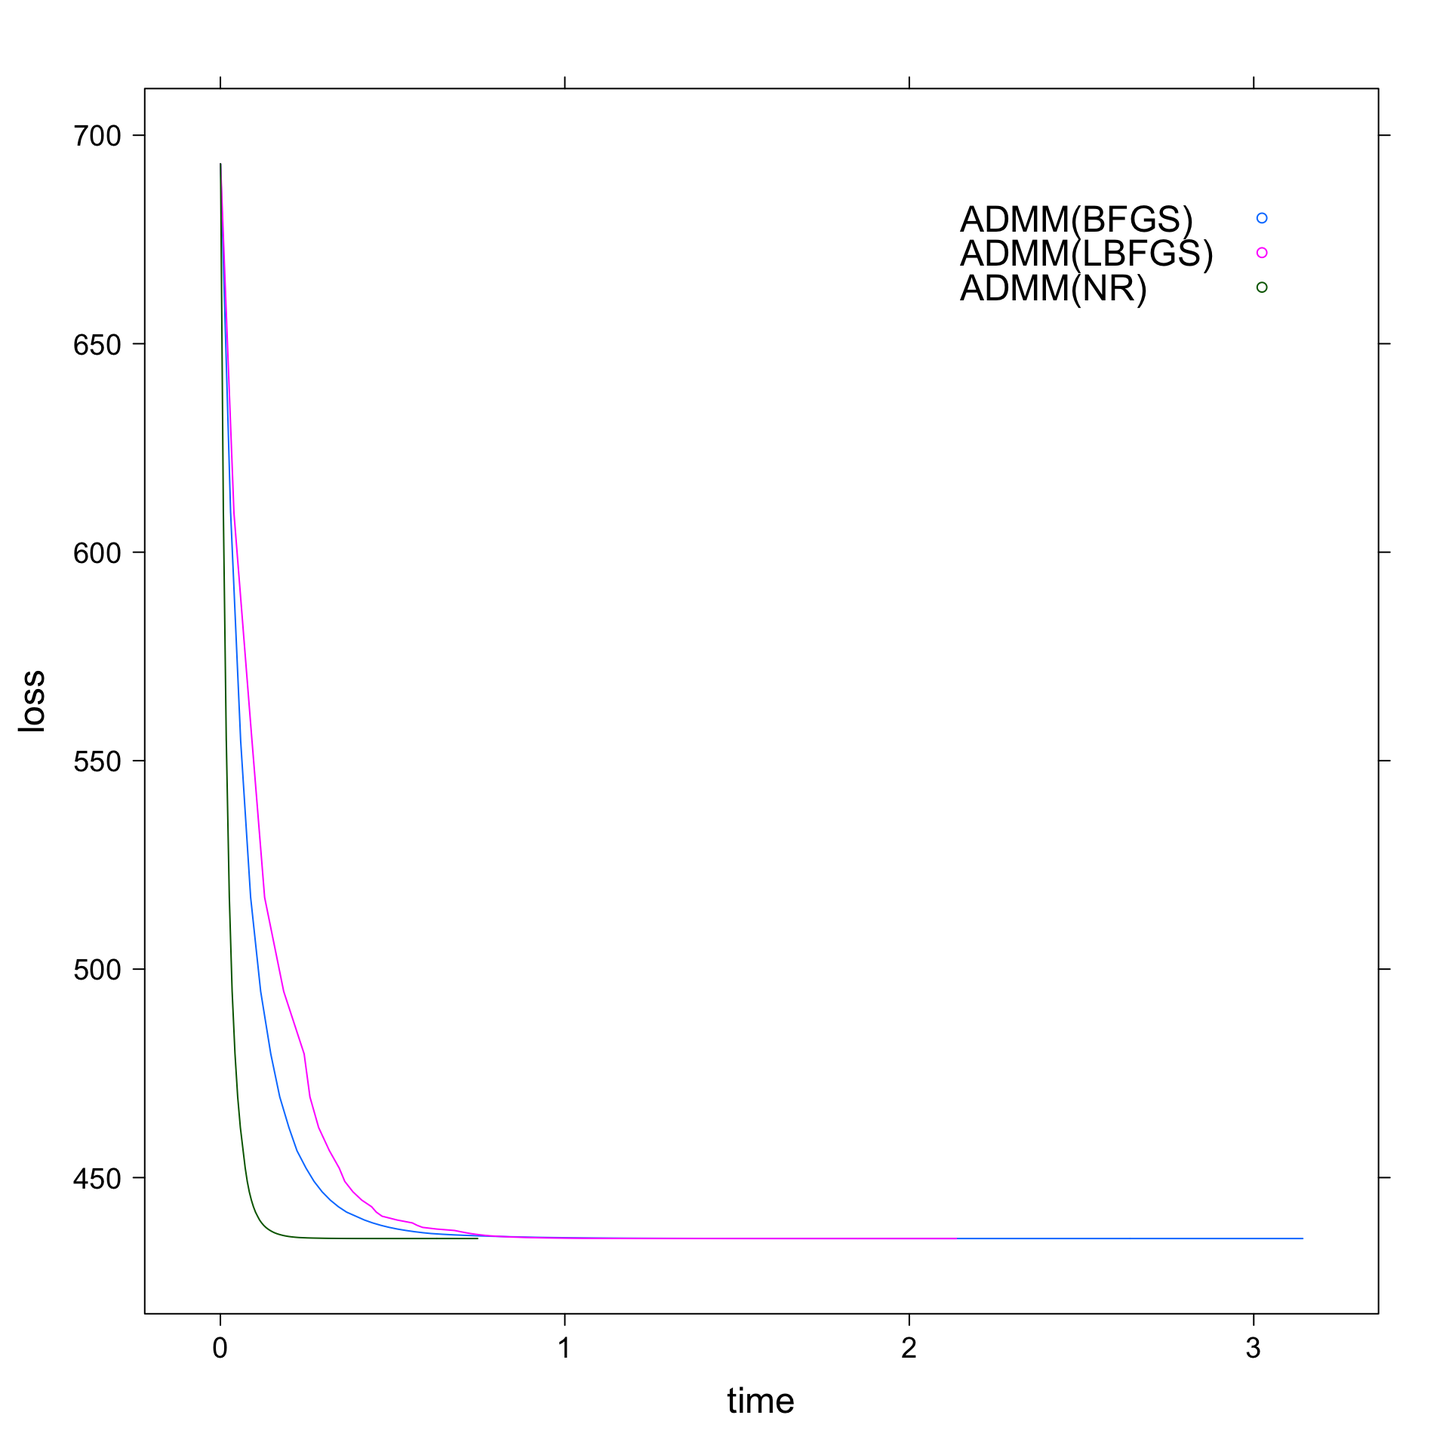
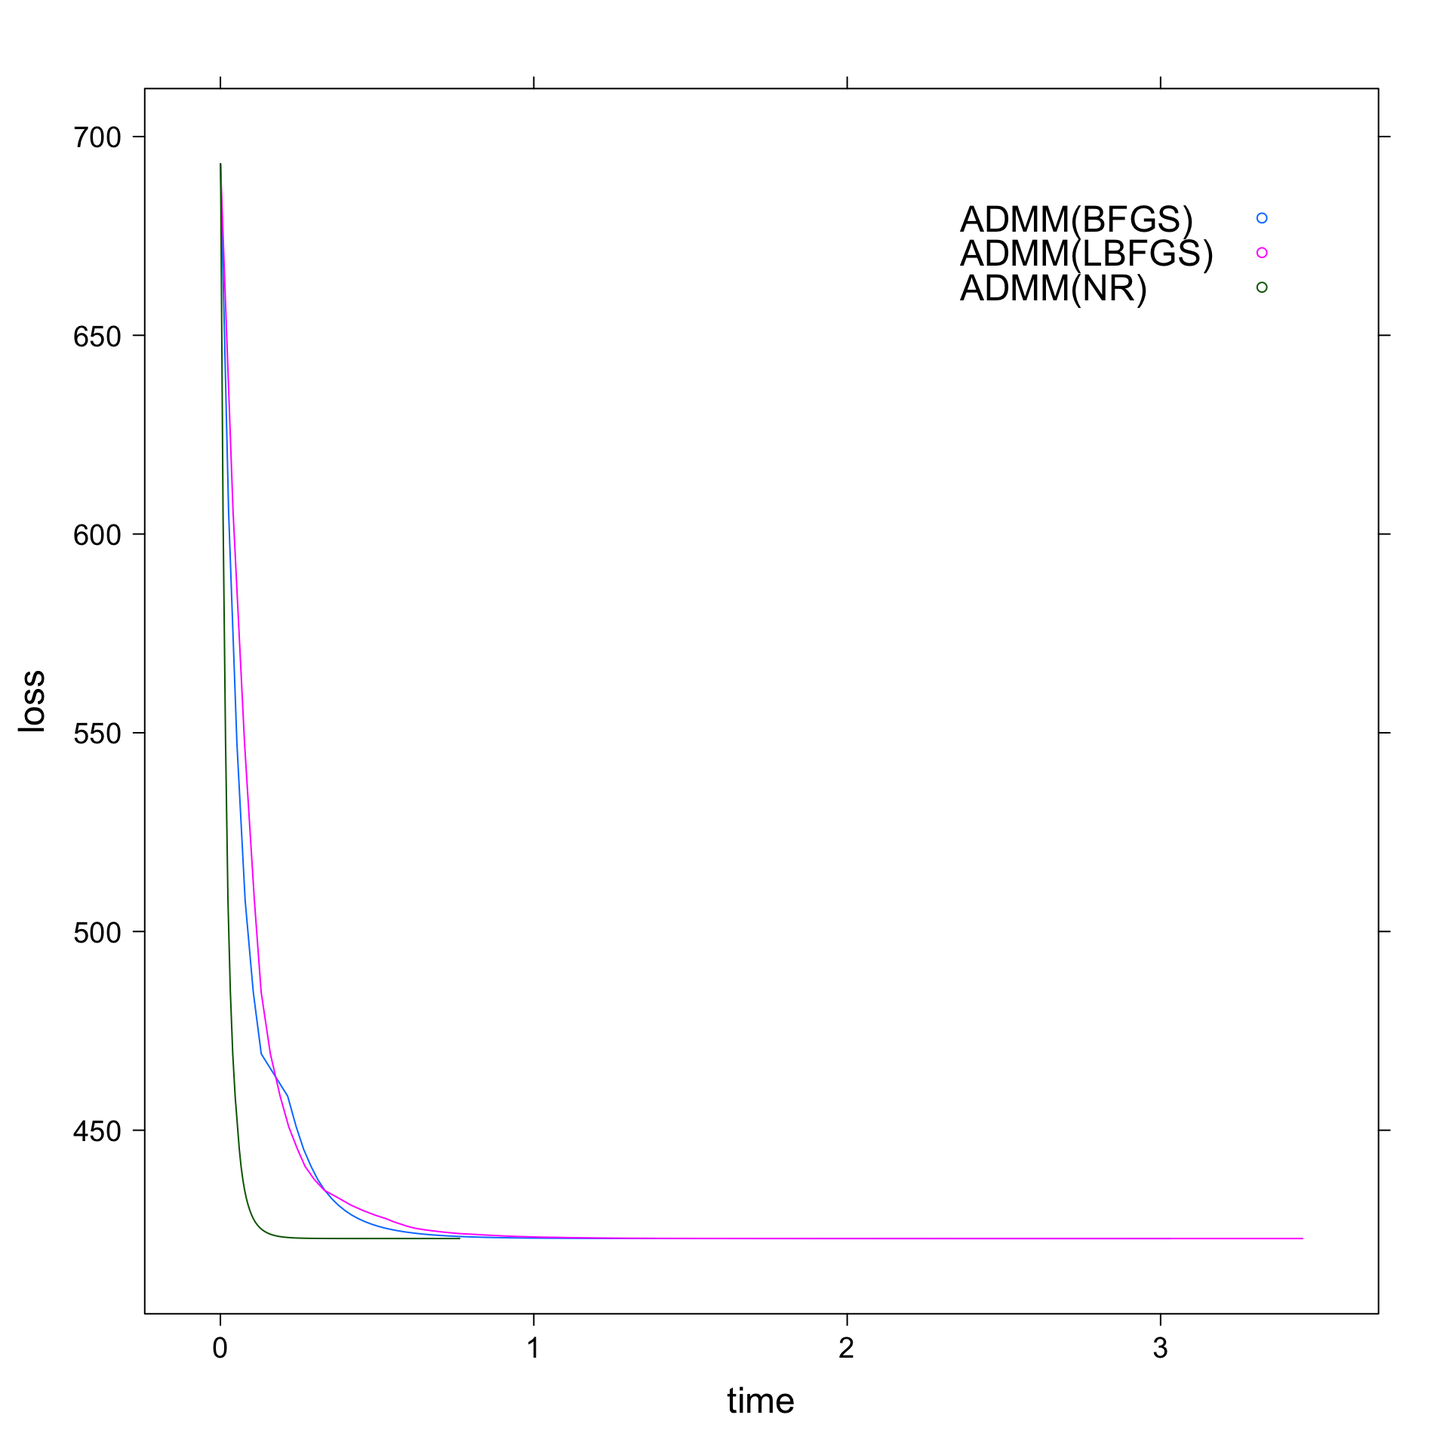
Built site for solvers: 1.0@ba93f93

diff --git a/articles/compare-fista-admm-pn.html b/articles/compare-fista-admm-pn.html
@@ -5,13 +5,13 @@
 <meta charset="utf-8">
 <meta http-equiv="X-UA-Compatible" content="IE=edge">
 <meta name="viewport" content="width=device-width, initial-scale=1.0">
-<title>Comparing Optimization Algorithm Choices in ADMM • solvers</title>
+<title>Comparing FISTA, ADMM and Proximal Newton • solvers</title>
 <!-- jquery --><script src="https://cdnjs.cloudflare.com/ajax/libs/jquery/3.4.1/jquery.min.js" integrity="sha256-CSXorXvZcTkaix6Yvo6HppcZGetbYMGWSFlBw8HfCJo=" crossorigin="anonymous"></script><!-- Bootstrap --><link rel="stylesheet" href="https://cdnjs.cloudflare.com/ajax/libs/twitter-bootstrap/3.4.1/css/bootstrap.min.css" integrity="sha256-bZLfwXAP04zRMK2BjiO8iu9pf4FbLqX6zitd+tIvLhE=" crossorigin="anonymous">
 <script src="https://cdnjs.cloudflare.com/ajax/libs/twitter-bootstrap/3.4.1/js/bootstrap.min.js" integrity="sha256-nuL8/2cJ5NDSSwnKD8VqreErSWHtnEP9E7AySL+1ev4=" crossorigin="anonymous"></script><!-- bootstrap-toc --><link rel="stylesheet" href="../bootstrap-toc.css">
 <script src="../bootstrap-toc.js"></script><!-- Font Awesome icons --><link rel="stylesheet" href="https://cdnjs.cloudflare.com/ajax/libs/font-awesome/5.12.1/css/all.min.css" integrity="sha256-mmgLkCYLUQbXn0B1SRqzHar6dCnv9oZFPEC1g1cwlkk=" crossorigin="anonymous">
 <link rel="stylesheet" href="https://cdnjs.cloudflare.com/ajax/libs/font-awesome/5.12.1/css/v4-shims.min.css" integrity="sha256-wZjR52fzng1pJHwx4aV2AO3yyTOXrcDW7jBpJtTwVxw=" crossorigin="anonymous">
 <!-- clipboard.js --><script src="https://cdnjs.cloudflare.com/ajax/libs/clipboard.js/2.0.6/clipboard.min.js" integrity="sha256-inc5kl9MA1hkeYUt+EC3BhlIgyp/2jDIyBLS6k3UxPI=" crossorigin="anonymous"></script><!-- headroom.js --><script src="https://cdnjs.cloudflare.com/ajax/libs/headroom/0.11.0/headroom.min.js" integrity="sha256-AsUX4SJE1+yuDu5+mAVzJbuYNPHj/WroHuZ8Ir/CkE0=" crossorigin="anonymous"></script><script src="https://cdnjs.cloudflare.com/ajax/libs/headroom/0.11.0/jQuery.headroom.min.js" integrity="sha256-ZX/yNShbjqsohH1k95liqY9Gd8uOiE1S4vZc+9KQ1K4=" crossorigin="anonymous"></script><!-- pkgdown --><link href="../pkgdown.css" rel="stylesheet">
-<script src="../pkgdown.js"></script><meta property="og:title" content="Comparing Optimization Algorithm Choices in ADMM">
+<script src="../pkgdown.js"></script><meta property="og:title" content="Comparing FISTA, ADMM and Proximal Newton">
 <meta property="og:description" content="solvers">
 <!-- mathjax --><script src="https://cdnjs.cloudflare.com/ajax/libs/mathjax/2.7.5/MathJax.js" integrity="sha256-nvJJv9wWKEm88qvoQl9ekL2J+k/RWIsaSScxxlsrv8k=" crossorigin="anonymous"></script><script src="https://cdnjs.cloudflare.com/ajax/libs/mathjax/2.7.5/config/TeX-AMS-MML_HTMLorMML.js" integrity="sha256-84DKXVJXs0/F8OTMzX4UR909+jtl4G7SPypPavF+GfA=" crossorigin="anonymous"></script><!--[if lt IE 9]>
 <script src="https://oss.maxcdn.com/html5shiv/3.7.3/html5shiv.min.js"></script>
@@ -72,55 +72,53 @@
 
       
 
-      </header><script src="compare_opt_algo_files/accessible-code-block-0.0.1/empty-anchor.js"></script><div class="row">
+      </header><script src="compare-fista-admm-pn_files/accessible-code-block-0.0.1/empty-anchor.js"></script><div class="row">
   <div class="col-md-9 contents">
     <div class="page-header toc-ignore">
-      <h1 data-toc-skip>Comparing Optimization Algorithm Choices in ADMM</h1>
+      <h1 data-toc-skip>Comparing FISTA, ADMM and Proximal Newton</h1>
                         <h4 class="author">Akarsh Goyal</h4>
             
             <h4 class="date">2020-07-24</h4>
       
       
-      <div class="hidden name"><code>compare_opt_algo.Rmd</code></div>
+      <div class="hidden name"><code>compare-fista-admm-pn.Rmd</code></div>
 
     </div>
 
     
     
-<p>This tutorial shows how to compare perfomance of ADDM solver for different optimization algorithm choices. In this example, we will compare Newton-Raphson method, BFGS method and L-BFGS method.</p>
+<p>This tutorial shows how to compare perfomance of FISTA, ADMM and Proximal Newton. We will use ‘heart’ dataset for the demonstration.</p>
 <div class="sourceCode" id="cb1"><pre class="downlit">
 <span class="fu"><a href="https://rdrr.io/r/base/library.html">library</a></span>(<span class="kw">solvers</span>)
 <span class="fu"><a href="https://rdrr.io/r/base/library.html">library</a></span>(<span class="kw"><a href="http://lattice.r-forge.r-project.org">lattice</a></span>)
 </pre></div>
+<p>Let’s load the data..</p>
 <div class="sourceCode" id="cb2"><pre class="downlit">
-<span class="co"># Generating data</span>
-<span class="kw">n</span> <span class="op">&lt;-</span> <span class="fl">1000</span>
-<span class="kw">p</span> <span class="op">&lt;-</span> <span class="fl">40</span>
-<span class="kw">d</span> <span class="op">&lt;-</span> <span class="fu"><a href="../reference/randomProblem.html">randomProblem</a></span>(<span class="kw">n</span>, <span class="kw">p</span>, response = <span class="st">"binomial"</span>, density=<span class="fl">0.5</span>)
-<span class="kw">x</span> <span class="op">&lt;-</span> <span class="kw">d</span><span class="op">$</span><span class="kw">x</span>
-<span class="kw">y</span> <span class="op">&lt;-</span> <span class="kw">d</span><span class="op">$</span><span class="kw">y</span>
+<span class="kw">x</span> <span class="op">&lt;-</span> <span class="kw">SLOPE</span>::<span class="kw"><a href="https://jolars.github.io/SLOPE//reference/heart.html">heart</a></span><span class="op">$</span><span class="kw">x</span>
+<span class="kw">y</span> <span class="op">&lt;-</span> <span class="kw">SLOPE</span>::<span class="kw"><a href="https://jolars.github.io/SLOPE//reference/heart.html">heart</a></span><span class="op">$</span><span class="kw">y</span>
 </pre></div>
-<p>Now that we have out training data-set, we will use ADMM to obtain the fit thrice - once with Newton-Raphson as optimization algorithm, once with BFGS as optimization algorithm and finally once with L-BFGS as optimization algorithm. Note that <code>diagnostics=TRUE</code> flag is necessary so that solver records the metrics at each iteration.</p>
+<p>First step is generating fits for each of the algorithms. Note that <code>diagnostics=TRUE</code> flag is necessary so that solver records the metrics at each iteration.</p>
 <div class="sourceCode" id="cb3"><pre class="downlit">
 <span class="co"># Obtaining the fit for the solvers we want to compare</span>
-<span class="kw">admm_nr</span> <span class="op">&lt;-</span> <span class="fu"><a href="../reference/ADMM.html">ADMM</a></span>(<span class="kw">x</span>, <span class="kw">y</span>, family=<span class="st">"binomial"</span>, opt_algo=<span class="st">"nr"</span>, alpha=(<span class="fl">0.01</span>),diagnostics=<span class="fl">TRUE</span>)
-<span class="kw">admm_bfgs</span> <span class="op">&lt;-</span> <span class="fu"><a href="../reference/ADMM.html">ADMM</a></span>(<span class="kw">x</span>, <span class="kw">y</span>, family=<span class="st">"binomial"</span>, opt_algo=<span class="st">"bfgs"</span>, alpha=(<span class="fl">0.01</span>),diagnostics=<span class="fl">TRUE</span>)
-<span class="kw">admm_lbfgs</span> <span class="op">&lt;-</span> <span class="fu"><a href="../reference/ADMM.html">ADMM</a></span>(<span class="kw">x</span>, <span class="kw">y</span>, family=<span class="st">"binomial"</span>, opt_algo=<span class="st">"lbfgs"</span>, alpha=(<span class="fl">0.01</span>),diagnostics=<span class="fl">TRUE</span>)
+<span class="kw">fista_fit</span> <span class="op">&lt;-</span> <span class="fu"><a href="../reference/FISTA.html">FISTA</a></span>(<span class="kw">x</span>, <span class="kw">y</span>, family=<span class="st">"binomial"</span>, alpha=(<span class="fl">0.01</span>),diagnostics=<span class="fl">TRUE</span>)
+<span class="kw">admm_fit</span> <span class="op">&lt;-</span> <span class="fu"><a href="../reference/ADMM.html">ADMM</a></span>(<span class="kw">x</span>, <span class="kw">y</span>, family=<span class="st">"binomial"</span>, alpha=(<span class="fl">0.01</span>),diagnostics=<span class="fl">TRUE</span>)
+<span class="kw">pn_fit</span> <span class="op">&lt;-</span> <span class="fu"><a href="../reference/PN.html">PN</a></span>(<span class="kw">x</span>, <span class="kw">y</span>, family=<span class="st">"binomial"</span>, alpha=(<span class="fl">0.01</span>),diagnostics=<span class="fl">TRUE</span>)
 </pre></div>
+<p>We haven’t specified optimization algorithm choice in ADMM so default (L-BFGS) will be used.</p>
 <p>To compare total execution time, we can use <code>total_time</code> attribute of the fit.</p>
 <div class="sourceCode" id="cb4"><pre class="downlit">
 <span class="co"># Comparing total execution time</span>
-<span class="fu"><a href="https://rdrr.io/r/base/print.html">print</a></span>(<span class="kw">admm_nr</span><span class="op">$</span><span class="kw">total_time</span>)
-<span class="co">#&gt; [1] 0.7702352</span>
-<span class="fu"><a href="https://rdrr.io/r/base/print.html">print</a></span>(<span class="kw">admm_bfgs</span><span class="op">$</span><span class="kw">total_time</span>)
-<span class="co">#&gt; [1] 3.058546</span>
-<span class="fu"><a href="https://rdrr.io/r/base/print.html">print</a></span>(<span class="kw">admm_lbfgs</span><span class="op">$</span><span class="kw">total_time</span>)
-<span class="co">#&gt; [1] 3.479248</span>
+<span class="fu"><a href="https://rdrr.io/r/base/print.html">print</a></span>(<span class="kw">fista_fit</span><span class="op">$</span><span class="kw">total_time</span>)
+<span class="co">#&gt; [1] 0.1087088</span>
+<span class="fu"><a href="https://rdrr.io/r/base/print.html">print</a></span>(<span class="kw">admm_fit</span><span class="op">$</span><span class="kw">total_time</span>)
+<span class="co">#&gt; [1] 0.3976996</span>
+<span class="fu"><a href="https://rdrr.io/r/base/print.html">print</a></span>(<span class="kw">pn_fit</span><span class="op">$</span><span class="kw">total_time</span>)
+<span class="co">#&gt; [1] 0.02168173</span>
 </pre></div>
 <p>Now, these fits cannot be directly used to plot as they contain a lot of parameter so we’ll call a utility function that merges the relevant parameter and returns a dataframe.</p>
 <div class="sourceCode" id="cb5"><pre class="downlit">
 <span class="co"># Merging the metrics into one dataframe</span>
-<span class="kw">f</span> <span class="op">&lt;-</span> <span class="fu"><a href="../reference/mergeFits.html">mergeFits</a></span>(<span class="fu"><a href="https://rdrr.io/r/base/list.html">list</a></span>(<span class="kw">admm_nr</span>, <span class="kw">admm_bfgs</span>, <span class="kw">admm_lbfgs</span>))
+<span class="kw">f</span> <span class="op">&lt;-</span> <span class="fu"><a href="../reference/mergeFits.html">mergeFits</a></span>(<span class="fu"><a href="https://rdrr.io/r/base/list.html">list</a></span>(<span class="kw">fista_fit</span>, <span class="kw">admm_fit</span>, <span class="kw">pn_fit</span>))
 </pre></div>
 <p>Finally, now we can generate the loss vs time plot.</p>
 <div class="sourceCode" id="cb6"><pre class="downlit">
@@ -128,7 +126,7 @@
 <span class="kw">plt</span> <span class="op">&lt;-</span> <span class="fu"><a href="https://rdrr.io/pkg/lattice/man/xyplot.html">xyplot</a></span>(<span class="kw">loss</span> <span class="op">~</span> <span class="kw">time</span>, group = <span class="kw">solver</span>, data = <span class="kw">f</span>, auto.key = <span class="fu"><a href="https://rdrr.io/r/base/list.html">list</a></span>(corner = <span class="fu"><a href="https://rdrr.io/r/base/c.html">c</a></span>(<span class="fl">0.9</span>, <span class="fl">0.9</span>)), type = <span class="st">"l"</span>)
 <span class="fu"><a href="https://rdrr.io/r/stats/update.html">update</a></span>(<span class="kw">plt</span>, par.settings = <span class="fu"><a href="https://rdrr.io/r/base/list.html">list</a></span>(fontsize = <span class="fu"><a href="https://rdrr.io/r/base/list.html">list</a></span>(text = <span class="fl">18</span>)))
 </pre></div>
-<p><img src="compare_opt_algo_files/figure-html/unnamed-chunk-6-1.png" width="960"></p>
+<p><img src="compare-fista-admm-pn_files/figure-html/unnamed-chunk-6-1.png" width="960"></p>
   </div>
 
   <div class="col-md-3 hidden-xs hidden-sm" id="pkgdown-sidebar">

diff --git a/reference/PN.html b/reference/PN.html
@@ -6,7 +6,7 @@
 <meta http-equiv="X-UA-Compatible" content="IE=edge">
 <meta name="viewport" content="width=device-width, initial-scale=1.0">
 
-<title>FISTA — FISTA • solvers</title>
+<title>Proximal Newton — PN • solvers</title>
 
 
 <!-- jquery -->
@@ -39,8 +39,8 @@
 
 
 
-<meta property="og:title" content="FISTA — FISTA" />
-<meta property="og:description" content="FISTA" />
+<meta property="og:title" content="Proximal Newton — PN" />
+<meta property="og:description" content="Proximal Newton" />
 
 
 
@@ -118,16 +118,16 @@
 <div class="row">
   <div class="col-md-9 contents">
     <div class="page-header">
-    <h1>FISTA</h1>
+    <h1>Proximal Newton</h1>
     
-    <div class="hidden name"><code>FISTA.Rd</code></div>
+    <div class="hidden name"><code>PN.Rd</code></div>
     </div>
 
     <div class="ref-description">
-    <p>FISTA</p>
+    <p>Proximal Newton</p>
     </div>
 
-    <pre class="usage"><span class='fu'>FISTA</span>(
+    <pre class="usage"><span class='fu'>PN</span>(
   <span class='kw'>x</span>,
   <span class='kw'>y</span>,
   family = <span class='fu'><a href='https://rdrr.io/r/base/c.html'>c</a></span>(<span class='st'>"gaussian"</span>, <span class='st'>"binomial"</span>, <span class='st'>"multinomial"</span>, <span class='st'>"poisson"</span>),
@@ -144,9 +144,7 @@
   tol_dev_change = <span class='fl'>1e-05</span>,
   tol_dev_ratio = <span class='fl'>0.995</span>,
   max_variables = <span class='fu'><a href='https://rdrr.io/r/base/nrow.html'>NROW</a></span>(<span class='kw'>x</span>),
-  max_passes = <span class='fl'>1e+06</span>,
-  tol_rel_gap = <span class='fl'>1e-05</span>,
-  tol_infeas = <span class='fl'>0.001</span>,
+  max_passes = <span class='fl'>150</span>,
   diagnostics = <span class='fl'>FALSE</span>,
   verbosity = <span class='fl'>0</span>
 )</pre>
@@ -265,14 +263,6 @@ the number of levels of the response minus one.</p></td>
     <tr>
       <th>max_passes</th>
       <td><p>maximum number of passes (outer iterations) for solver</p></td>
-    </tr>
-    <tr>
-      <th>tol_rel_gap</th>
-      <td><p>stopping criterion for the duality gap</p></td>
-    </tr>
-    <tr>
-      <th>tol_infeas</th>
-      <td><p>stopping criterion for the level of infeasibility</p></td>
     </tr>
     <tr>
       <th>diagnostics</th>

diff --git a/reference/mergeFits.html b/reference/mergeFits.html
@@ -6,7 +6,7 @@
 <meta http-equiv="X-UA-Compatible" content="IE=edge">
 <meta name="viewport" content="width=device-width, initial-scale=1.0">
 
-<title>FISTA — mergeFits • solvers</title>
+<title>Merges all the fits and returns a dataframe containing losses and time — mergeFits • solvers</title>
 
 
 <!-- jquery -->
@@ -39,8 +39,8 @@
 
 
 
-<meta property="og:title" content="FISTA — mergeFits" />
-<meta property="og:description" content="FISTA" />
+<meta property="og:title" content="Merges all the fits and returns a dataframe containing losses and time — mergeFits" />
+<meta property="og:description" content="Merges all the fits and returns a dataframe containing losses and time" />
 
 
 
@@ -95,7 +95,7 @@
   </a>
   <ul class="dropdown-menu" role="menu">
     <li>
-      <a href="../articles/compare-fista-admm.html">Comparing FISTA and ADMM solvers</a>
+      <a href="../articles/compare-fista-admm-pn.html">Comparing FISTA, ADMM and Proximal Newton</a>
     </li>
     <li>
       <a href="../articles/compare_opt_algo.html">Comparing Optimization Algorithm Choices in ADMM</a>
@@ -118,13 +118,13 @@
 <div class="row">
   <div class="col-md-9 contents">
     <div class="page-header">
-    <h1>FISTA</h1>
+    <h1>Merges all the fits and returns a dataframe containing losses and time</h1>
     
     <div class="hidden name"><code>mergeFits.Rd</code></div>
     </div>
 
     <div class="ref-description">
-    <p>FISTA</p>
+    <p>Merges all the fits and returns a dataframe containing losses and time</p>
     </div>
 
     <pre class="usage"><span class='fu'>mergeFits</span>(<span class='kw'>fits</span>)</pre>

diff --git a/reference/index.html b/reference/index.html
@@ -94,7 +94,7 @@
   </a>
   <ul class="dropdown-menu" role="menu">
     <li>
-      <a href="../articles/compare-fista-admm.html">Comparing FISTA and ADMM solvers</a>
+      <a href="../articles/compare-fista-admm-pn.html">Comparing FISTA, ADMM and Proximal Newton</a>
     </li>
     <li>
       <a href="../articles/compare_opt_algo.html">Comparing Optimization Algorithm Choices in ADMM</a>
@@ -155,9 +155,15 @@
       </tr><tr>
         
         <td>
+          <p><code><a href="PN.html">PN()</a></code> </p>
+        </td>
+        <td><p>Proximal Newton</p></td>
+      </tr><tr>
+        
+        <td>
           <p><code><a href="mergeFits.html">mergeFits()</a></code> </p>
         </td>
-        <td><p>FISTA</p></td>
+        <td><p>Merges all the fits and returns a dataframe containing losses and time</p></td>
       </tr><tr>
         
         <td>

diff --git a/articles/index.html b/articles/index.html
@@ -94,7 +94,7 @@
   </a>
   <ul class="dropdown-menu" role="menu">
     <li>
-      <a href="../articles/compare-fista-admm.html">Comparing FISTA and ADMM solvers</a>
+      <a href="../articles/compare-fista-admm-pn.html">Comparing FISTA, ADMM and Proximal Newton</a>
     </li>
     <li>
       <a href="../articles/compare_opt_algo.html">Comparing Optimization Algorithm Choices in ADMM</a>
@@ -125,7 +125,7 @@
       <p class="section-desc"></p>
 
       <dl>
-        <dt><a href="compare-fista-admm.html">Comparing FISTA and ADMM solvers</a></dt>
+        <dt><a href="compare-fista-admm-pn.html">Comparing FISTA, ADMM and Proximal Newton</a></dt>
         <dd></dt>
         <dt><a href="compare_opt_algo.html">Comparing Optimization Algorithm Choices in ADMM</a></dt>
         <dd></dt>

diff --git a/articles/compare-fista-admm-pn_files/accessible-code-block-0.0.1/empty-anchor.js b/articles/compare-fista-admm-pn_files/accessible-code-block-0.0.1/empty-anchor.js
@@ -1,0 +1,15 @@
+// Hide empty <a> tag within highlighted CodeBlock for screen reader accessibility (see https://github.com/jgm/pandoc/issues/6352#issuecomment-626106786) -->
+// v0.0.1
+// Written by JooYoung Seo (jooyoung@psu.edu) and Atsushi Yasumoto on June 1st, 2020.
+
+document.addEventListener('DOMContentLoaded', function() {
+  const codeList = document.getElementsByClassName("sourceCode");
+  for (var i = 0; i < codeList.length; i++) {
+    var linkList = codeList[i].getElementsByTagName('a');
+    for (var j = 0; j < linkList.length; j++) {
+      if (linkList[j].innerHTML === "") {
+        linkList[j].setAttribute('aria-hidden', 'true');
+      }
+    }
+  }
+});

diff --git a/reference/ADMM.html b/reference/ADMM.html
@@ -95,7 +95,7 @@
   </a>
   <ul class="dropdown-menu" role="menu">
     <li>
-      <a href="../articles/compare-fista-admm.html">Comparing FISTA and ADMM solvers</a>
+      <a href="../articles/compare-fista-admm-pn.html">Comparing FISTA, ADMM and Proximal Newton</a>
     </li>
     <li>
       <a href="../articles/compare_opt_algo.html">Comparing Optimization Algorithm Choices in ADMM</a>

diff --git a/reference/randomProblem.html b/reference/randomProblem.html
@@ -95,7 +95,7 @@
   </a>
   <ul class="dropdown-menu" role="menu">
     <li>
-      <a href="../articles/compare-fista-admm.html">Comparing FISTA and ADMM solvers</a>
+      <a href="../articles/compare-fista-admm-pn.html">Comparing FISTA, ADMM and Proximal Newton</a>
     </li>
     <li>
       <a href="../articles/compare_opt_algo.html">Comparing Optimization Algorithm Choices in ADMM</a>

diff --git a/404.html b/404.html
@@ -94,7 +94,7 @@
   </a>
   <ul class="dropdown-menu" role="menu">
     <li>
-      <a href="articles/compare-fista-admm.html">Comparing FISTA and ADMM solvers</a>
+      <a href="articles/compare-fista-admm-pn.html">Comparing FISTA, ADMM and Proximal Newton</a>
     </li>
     <li>
       <a href="articles/compare_opt_algo.html">Comparing Optimization Algorithm Choices in ADMM</a>

diff --git a/LICENSE-text.html b/LICENSE-text.html
@@ -94,7 +94,7 @@
   </a>
   <ul class="dropdown-menu" role="menu">
     <li>
-      <a href="articles/compare-fista-admm.html">Comparing FISTA and ADMM solvers</a>
+      <a href="articles/compare-fista-admm-pn.html">Comparing FISTA, ADMM and Proximal Newton</a>
     </li>
     <li>
       <a href="articles/compare_opt_algo.html">Comparing Optimization Algorithm Choices in ADMM</a>

diff --git a/LICENSE.html b/LICENSE.html
@@ -94,7 +94,7 @@
   </a>
   <ul class="dropdown-menu" role="menu">
     <li>
-      <a href="articles/compare-fista-admm.html">Comparing FISTA and ADMM solvers</a>
+      <a href="articles/compare-fista-admm-pn.html">Comparing FISTA, ADMM and Proximal Newton</a>
     </li>
     <li>
       <a href="articles/compare_opt_algo.html">Comparing Optimization Algorithm Choices in ADMM</a>

diff --git a/authors.html b/authors.html
@@ -94,7 +94,7 @@
   </a>
   <ul class="dropdown-menu" role="menu">
     <li>
-      <a href="articles/compare-fista-admm.html">Comparing FISTA and ADMM solvers</a>
+      <a href="articles/compare-fista-admm-pn.html">Comparing FISTA, ADMM and Proximal Newton</a>
     </li>
     <li>
       <a href="articles/compare_opt_algo.html">Comparing Optimization Algorithm Choices in ADMM</a>
